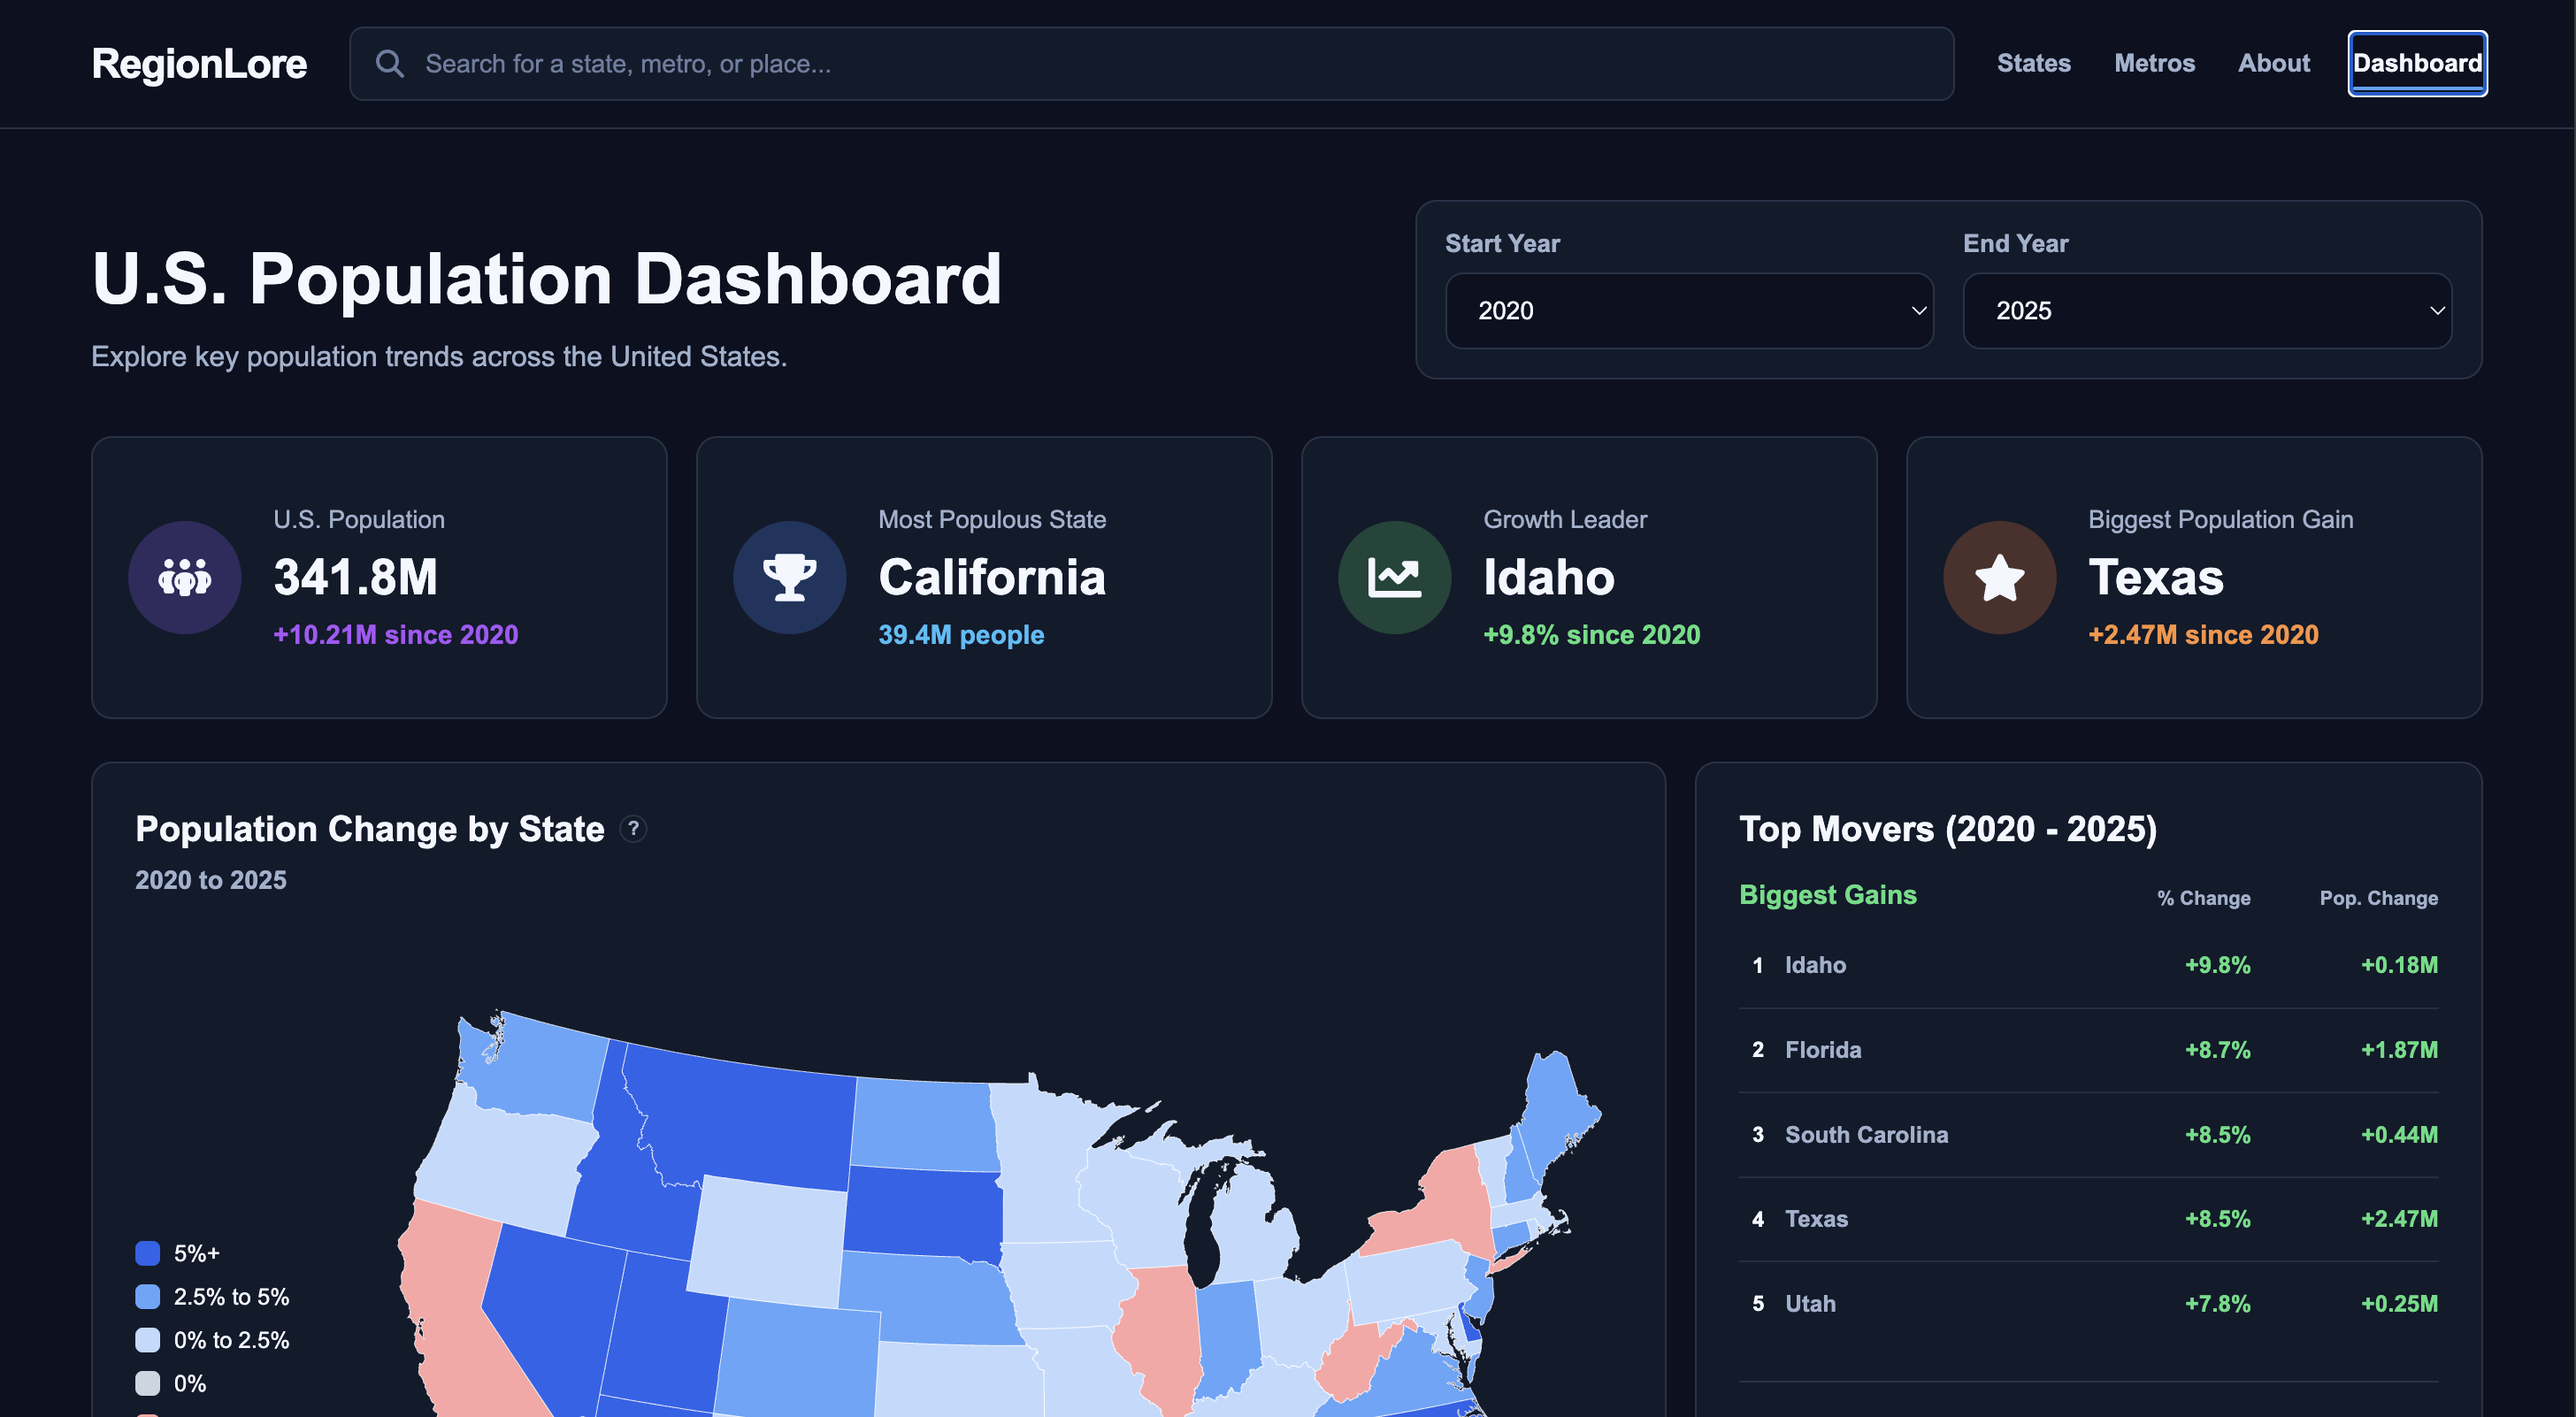
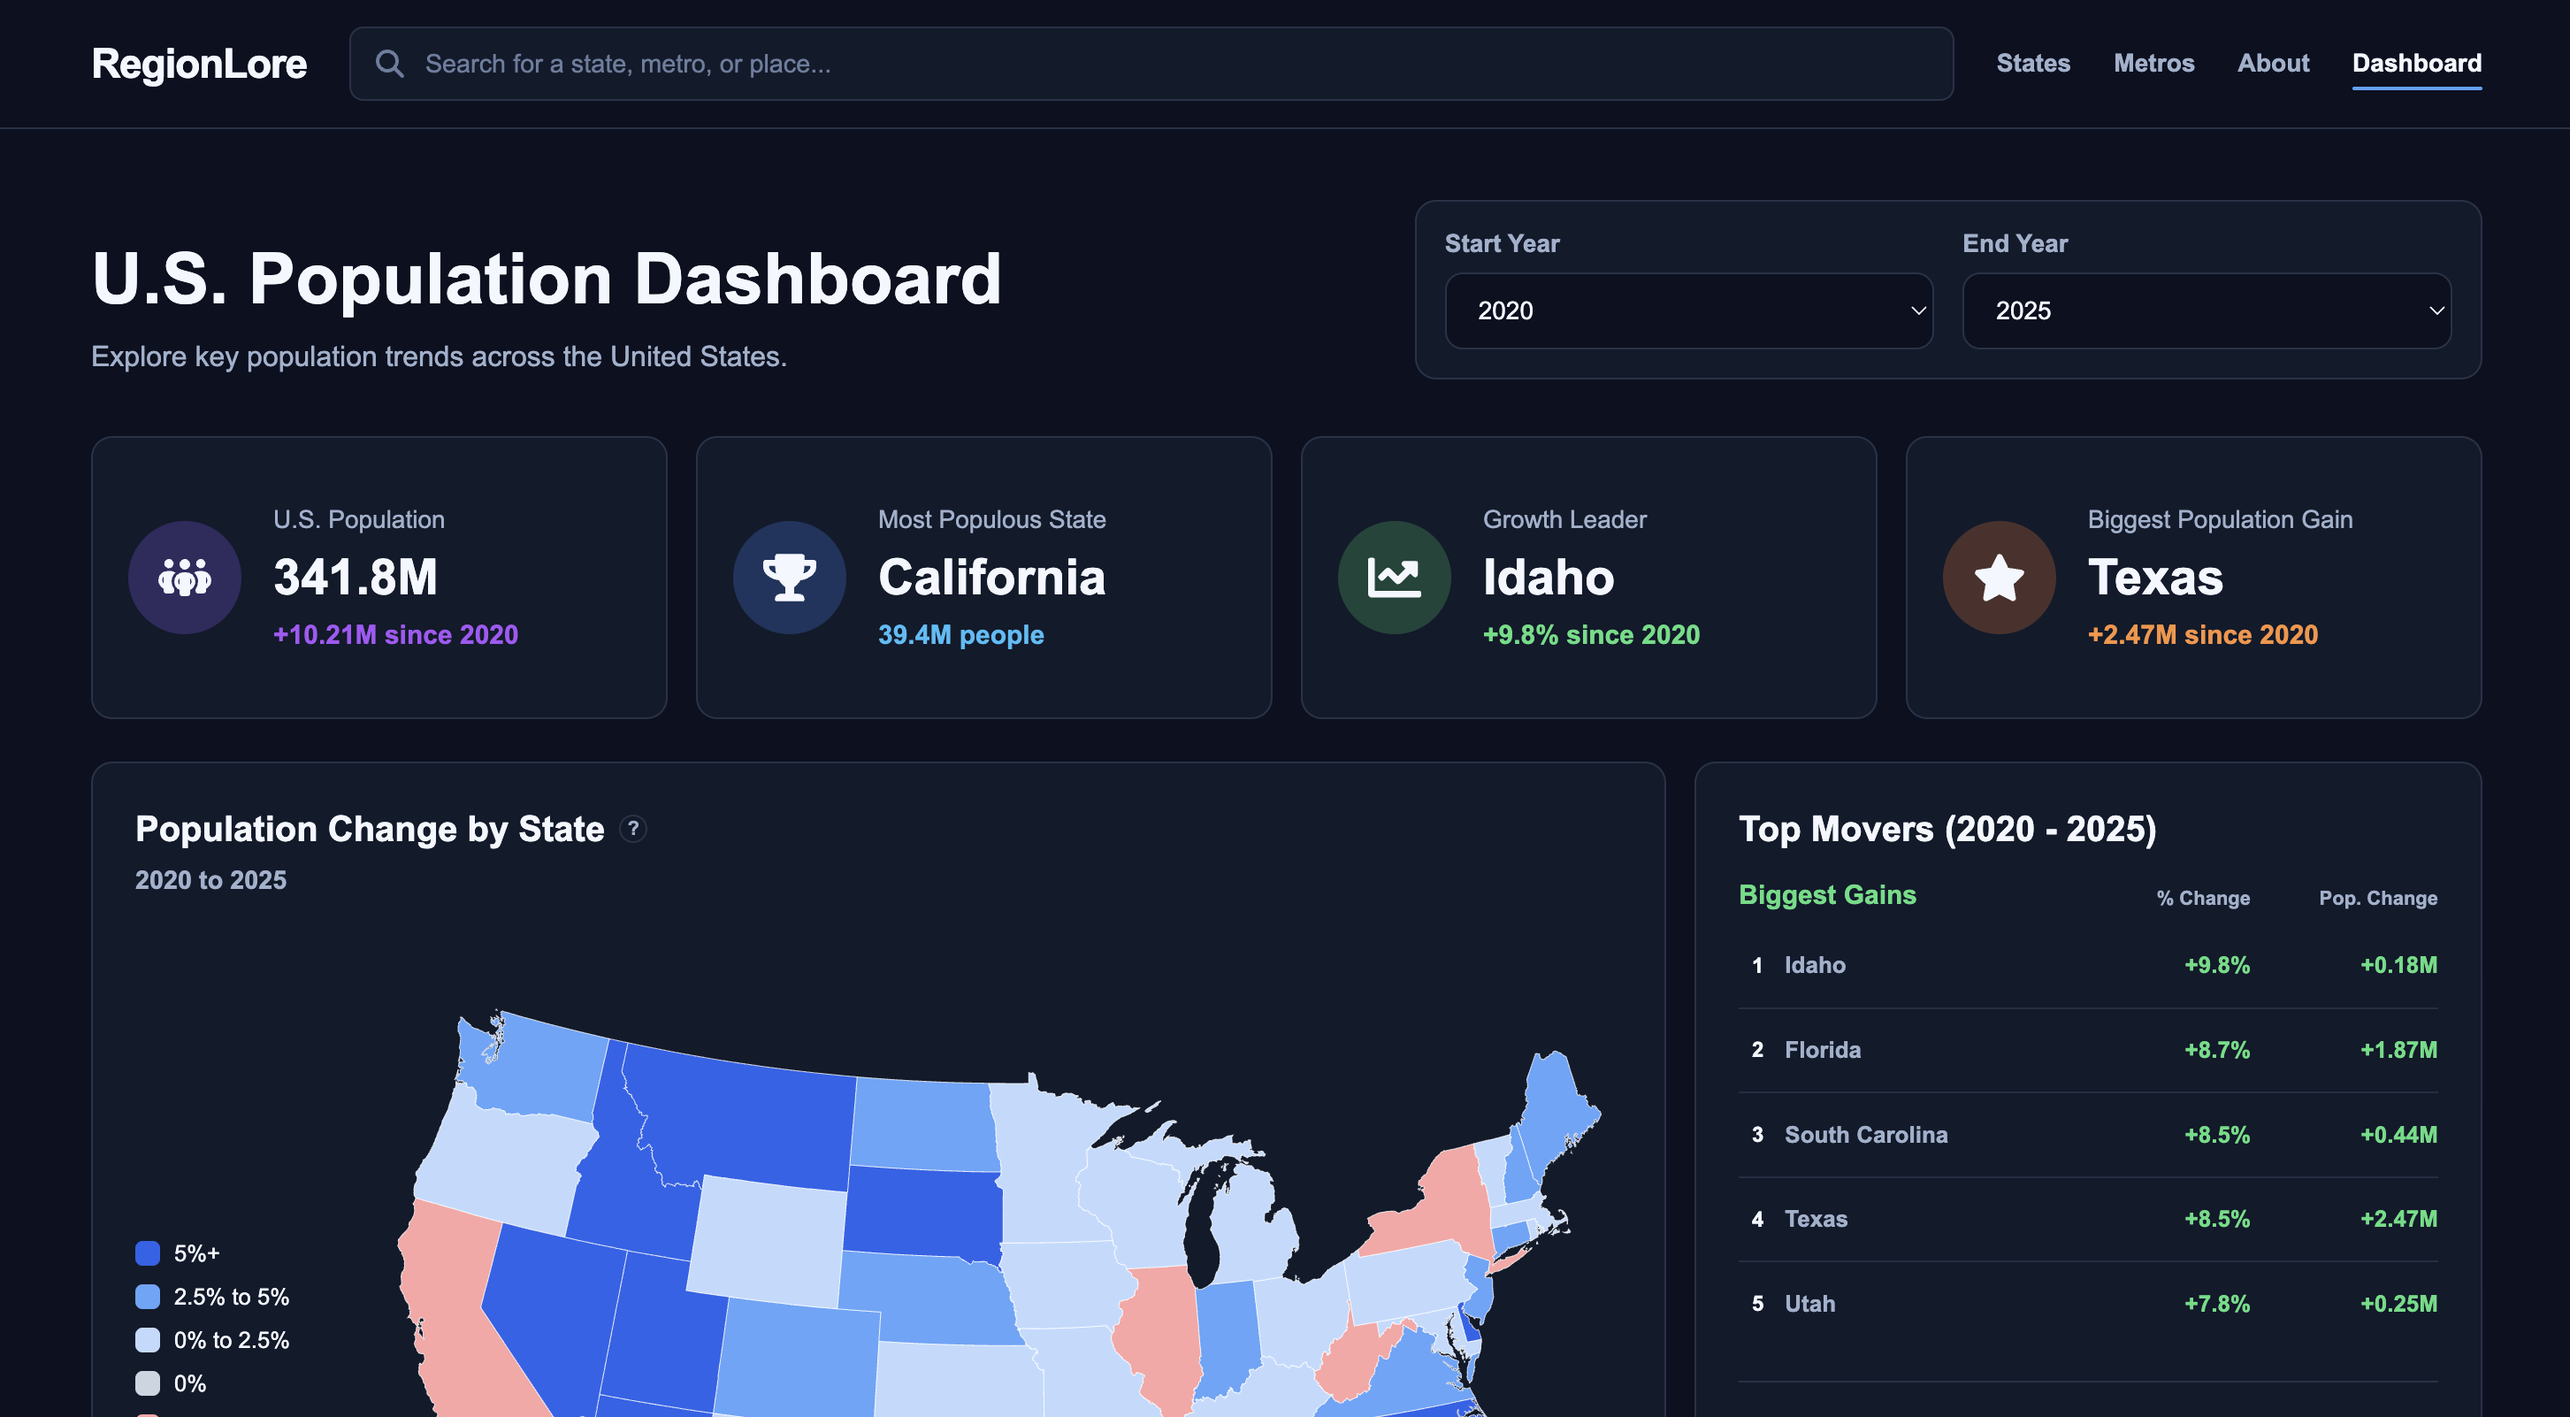
Update RegionLore tech and description.

diff --git a/src/data/data.js b/src/data/data.js
@@ -348,9 +348,9 @@ export const faqs = [
 export const featuredProjects = [
   {
     title: "RegionLore",
-    tech: "React, Node.js, Express, REST APIs, ETL Pipelines, AWS",
+    tech: "React, Node.js, Express, REST APIs, ETL Pipelines, Data Analytics, Interactive Mapping",
     description:
-      "Full-stack analytics platform for exploring demographic, economic, migration, education, housing, and labor-market data across U.S. states and metropolitan areas. RegionLore transforms large public datasets into searchable dashboards, maps, charts, rankings, and regional comparisons.",
+      "Comprehensive full-stack platform for researching and comparing U.S. states and metropolitan areas using demographic, migration, education, housing, labor-market, and economic data. RegionLore combines large public datasets into interactive maps, rankings, dashboards, and in-depth regional insights that help people better understand places.",
     link: "https://github.com/khector24/regionlore",
     tags: [
       "react",
